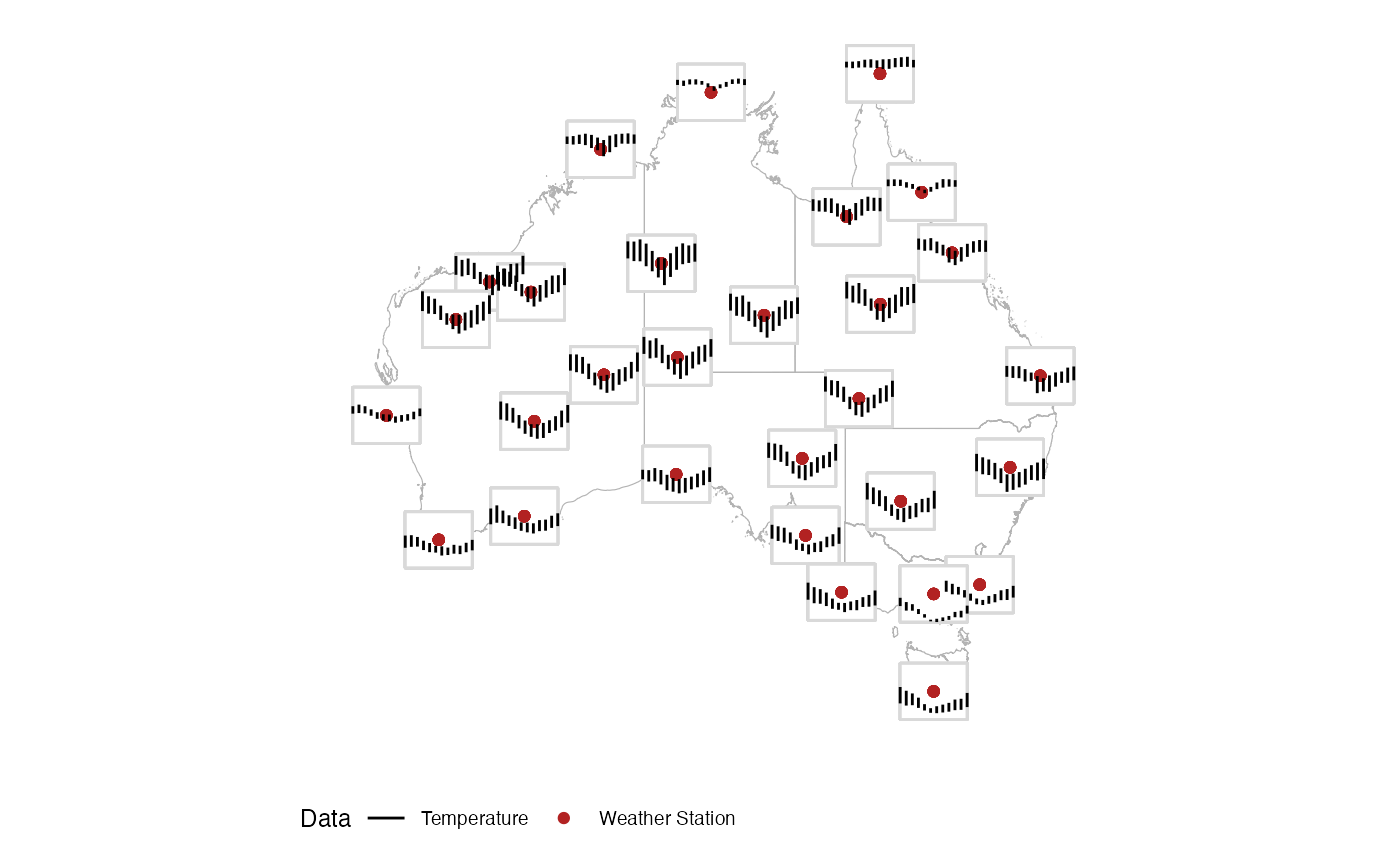
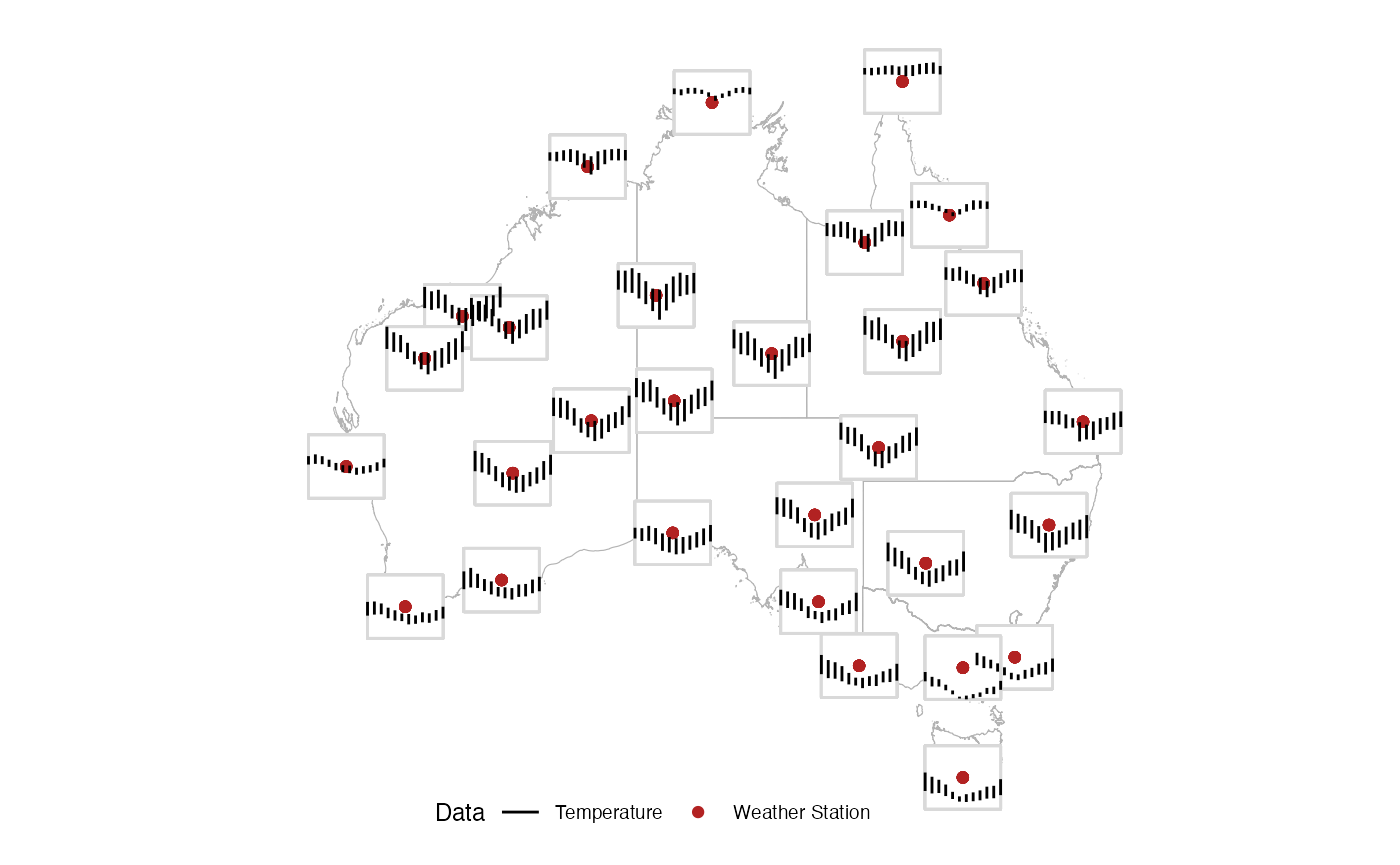
Add rhub workflows

Changed region(s): [[0.215, 0.0312, 0.7986, 0.9364], [0.3071, 0.9364, 0.6143, 0.9676], [0.215, 0.9364, 0.2764, 0.9676]]

diff --git a/docs/articles/Examples.html b/docs/articles/Examples.html
@@ -285,7 +285,7 @@ ensures the glyph fits the desired width and height.</p>
 <span>    values <span class="op">=</span> <span class="fu"><a href="https://rdrr.io/r/base/c.html" class="external-link">c</a></span><span class="op">(</span><span class="st">"Weather Station"</span> <span class="op">=</span> <span class="st">"firebrick"</span>,</span>
 <span>               <span class="st">"Temperature"</span> <span class="op">=</span> <span class="st">"black"</span><span class="op">)</span><span class="op">)</span> <span class="op">+</span></span>
 <span>  <span class="fu"><a href="https://ggplot2.tidyverse.org/reference/labs.html" class="external-link">labs</a></span><span class="op">(</span>color <span class="op">=</span> <span class="st">"Data"</span><span class="op">)</span>  <span class="op">+</span></span>
-<span>  <span class="fu"><a href="https://ggplot2.tidyverse.org/reference/theme.html" class="external-link">theme</a></span><span class="op">(</span>legend.position  <span class="op">=</span> <span class="st">"bottom"</span>,</span>
+<span>  <span class="fu"><a href="https://ggplot2.tidyverse.org/reference/theme.html" class="external-link">theme</a></span><span class="op">(</span>legend.position.inside <span class="op">=</span> <span class="fu"><a href="https://rdrr.io/r/base/c.html" class="external-link">c</a></span><span class="op">(</span><span class="fl">.2</span>,<span class="fl">0</span><span class="op">)</span>, </span>
 <span>        legend.direction <span class="op">=</span> <span class="st">"horizontal"</span><span class="op">)</span></span></code></pre></div>
 <p><img src="Examples_files/figure-html/unnamed-chunk-5-1.png" width="700"></p>
 <p>All previous examples have been made with global rescaling enabled

diff --git a/cran-comments.md b/cran-comments.md
@@ -1,0 +1,8 @@
+
+* This is a new release.
+
+## R CMD check results
+
+0 errors | 0 warnings | 1 note
+
+
